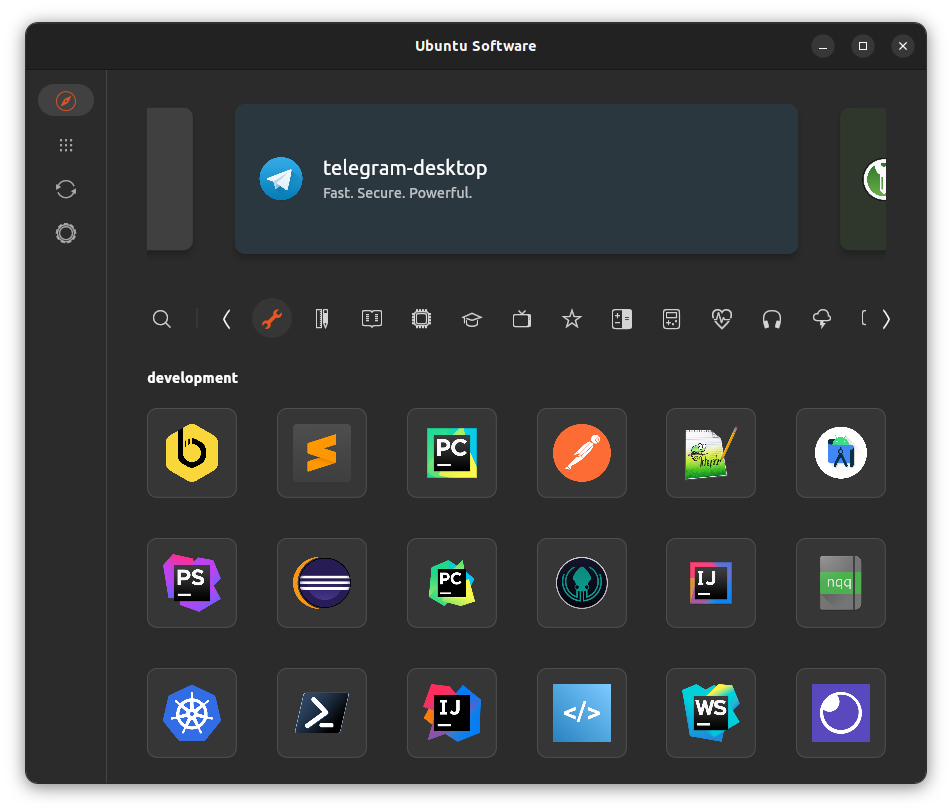
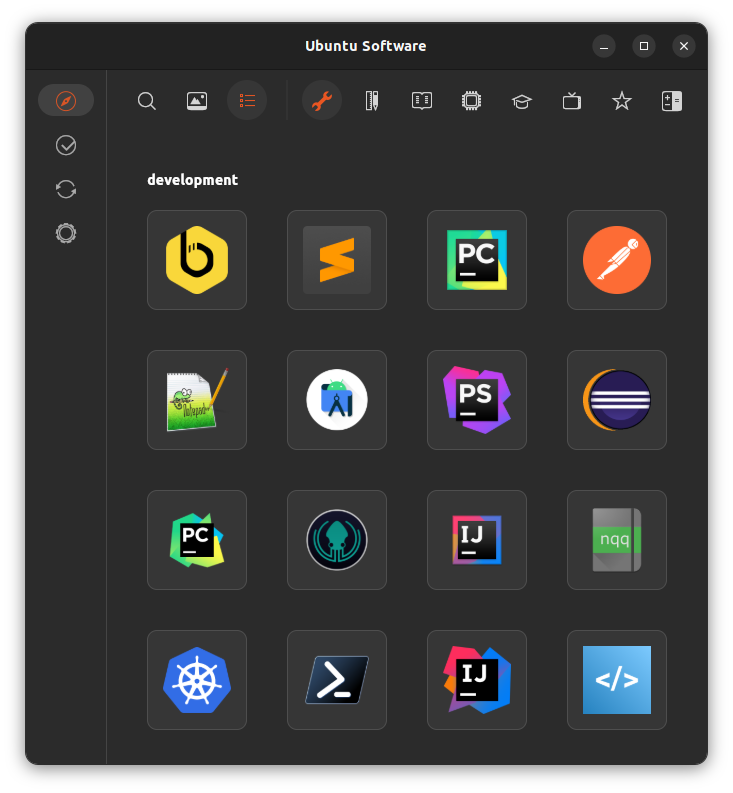
update readme screenshots

diff --git a/README.md b/README.md
@@ -2,6 +2,8 @@
 
 An alternative software store for the Ubuntu Desktop made with Flutter.
 
+![](.github/assets/exploremodelight.png)
+![](.github/assets/exploremodedark.png)
 ![](.github/assets/light.png)
 ![](.github/assets/dark.png)
 
